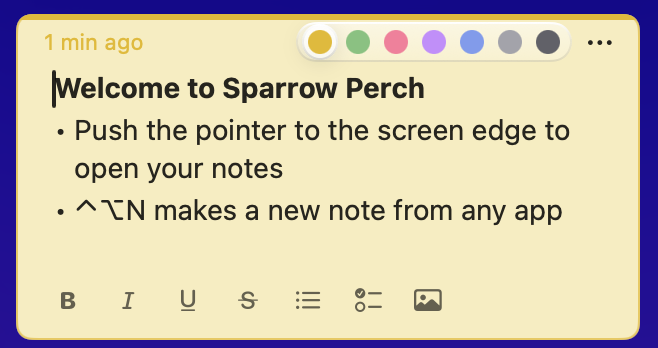
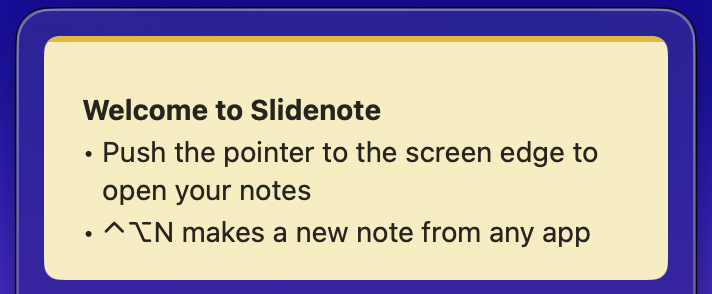
Welcome note image with the Slidenote name

diff --git a/README.md b/README.md
@@ -48,7 +48,7 @@
 </p>
 
 <p align="center">
-  <img src="images/note-colors.png" width="420" alt="A yellow note with the seven note colours">
+  <img src="images/note-colors.png" width="360" alt="The yellow Welcome to Slidenote note">
 </p>
 
 <br>
